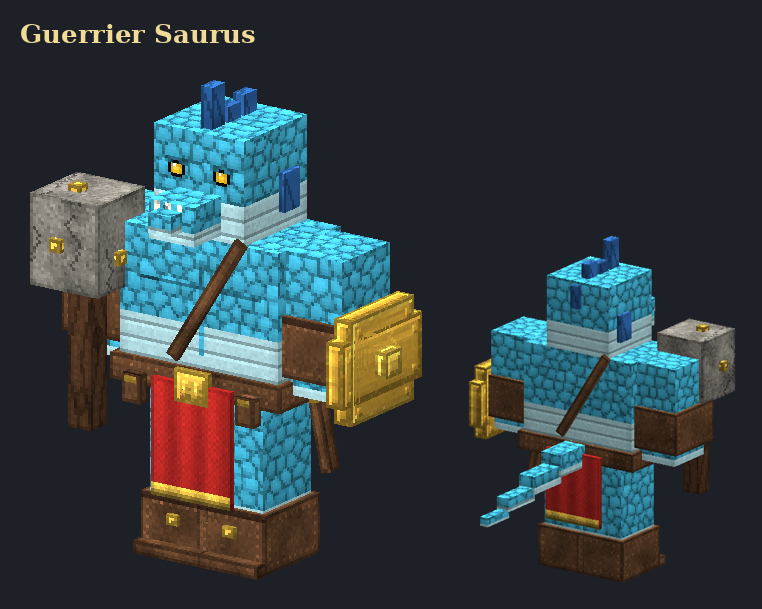
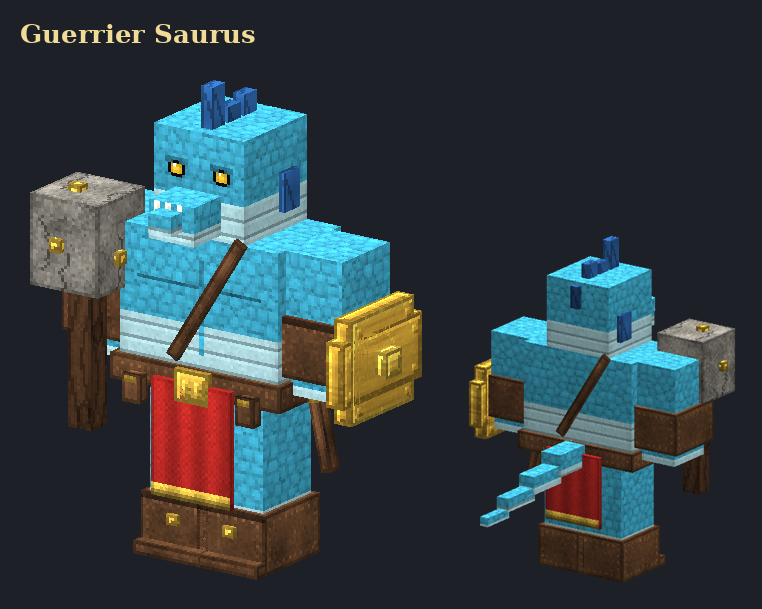
0.22.1 : Séraphons laissés comme à la 0.21
- Séraphons exclus des visages vivants et des paupières ; leurs fichiers (et ceux des
  bêtes écailleuses de la Mort et du Chaos non humain) sont figés : le générateur ne
  les réécrit plus (FIGES dans modele2.py)

Claude-Session: https://claude.ai/code/session_01KD4SD9vPJ8vQoKAn8nEeZb

diff --git a/outils/modeles/modele2.py b/outils/modeles/modele2.py
@@ -15,6 +15,11 @@ sys.path.insert(0, os.path.join(RACINE, "outils"))
 ASSETS = os.path.join(RACINE, "src/main/resources/assets/royaumes")
 D = 2   # texels par unité de modèle
 
+# modèles figés (le générateur ne réécrit plus leurs fichiers) : les Séraphons tels qu'à la 0.21, et les bêtes
+# écailleuses de la Mort et du Chaos non humain, qui ne doivent plus changer
+FIGES = {"saurus", "skink", "kroxigor", "carnosaur", "stegadon", "bastiladon", "monture_aggradon",
+         "dragon_zombie", "demon_slaanesh", "pusgoyle"}
+
 DIMS = {"north": (0, 1), "south": (0, 1), "east": (2, 1), "west": (2, 1), "up": (0, 2), "down": (0, 2)}
 
 
@@ -189,6 +194,12 @@ class Modele:
 
     def exporter(self, mats, animations):
         self.placer_uv()
+        if self.nom in FIGES and os.path.exists(f"{ASSETS}/textures/entity/{self.nom}.png"):
+            # modèle figé : ses fichiers ne sont plus réécrits ; on garde l'UV HD pour l'aperçu
+            self.tex *= 2
+            for c in self.cubes:
+                c.uv = {f: (2 * x0, 2 * y0, 2 * w, 2 * h) for f, (x0, y0, w, h) in c.uv.items()}
+            return Image.open(f"{ASSETS}/textures/entity/{self.nom}.png").convert("RGBA")
         tex, glow = self.peindre(mats)
         p = {"geo": f"{ASSETS}/geckolib/models/entity/{self.nom}.geo.json",
              "anim": f"{ASSETS}/geckolib/animations/entity/{self.nom}.animation.json",

diff --git a/outils/modeles/humanoide.py b/outils/modeles/humanoide.py
@@ -205,7 +205,7 @@ TROGNES = {"orruks": dict(bouche="machoire"), "gitz": dict(bouche="machoire"), "
 
 
 # visages retravaillés (0.22) : factions de l'Ordre, et visages humains du Chaos ; la Destruction et la Mort gardent les leurs
-ORDRE = {"stormcast", "cites", "khaine", "fyreslayers", "idoneth", "kharadron", "lumineth", "seraphon", "sylvaneth"}
+ORDRE = {"stormcast", "cites", "khaine", "fyreslayers", "idoneth", "kharadron", "lumineth", "sylvaneth"}   # Séraphons : inchangés
 CHAOS = {"esclaves", "khorne", "tzeentch", "slaanesh", "nurgle", "skaven", "hashut"}
 
 

diff --git a/README.md b/README.md
@@ -105,8 +105,8 @@ Cités et des Stormcast, ambre des Fyreslayers, or des Lumineth, rouge des Fille
 froncés, arqués, tristes), bouche (pincée, rictus, sourire, cri), et des marques : barbe naissante, cicatrices, peinture
 de guerre, runes lumineuses, cernes, fard. Les yeux ont un iris dégradé à liseré sombre, une pupille, deux reflets et un
 regard parfois de côté. Les yeux **clignent** au repos (paupières cachées dans la tête, poussées devant les yeux par
-l'animation d'attente). Les Sylvaneth ont une bouche creuse et des nœuds de bois. La Destruction et la Mort gardent
-leurs visages de la 0.21.
+l'animation d'attente). Les Sylvaneth ont une bouche creuse et des nœuds de bois. La Destruction, la Mort et les Séraphons
+gardent leur apparence de la 0.21 (modèles figés dans `outils/modeles/modele2.py`, liste `FIGES`).
 
 **Visages, roues et écailles (0.21).** Les visages sont peints directement en HD (orbites ombrées, blanc de l'œil, iris
 et pupille avec reflet, paupières, sourcils épais, ombre du nez, pommettes, lèvres) et les yeux des bêtes et des monstres
